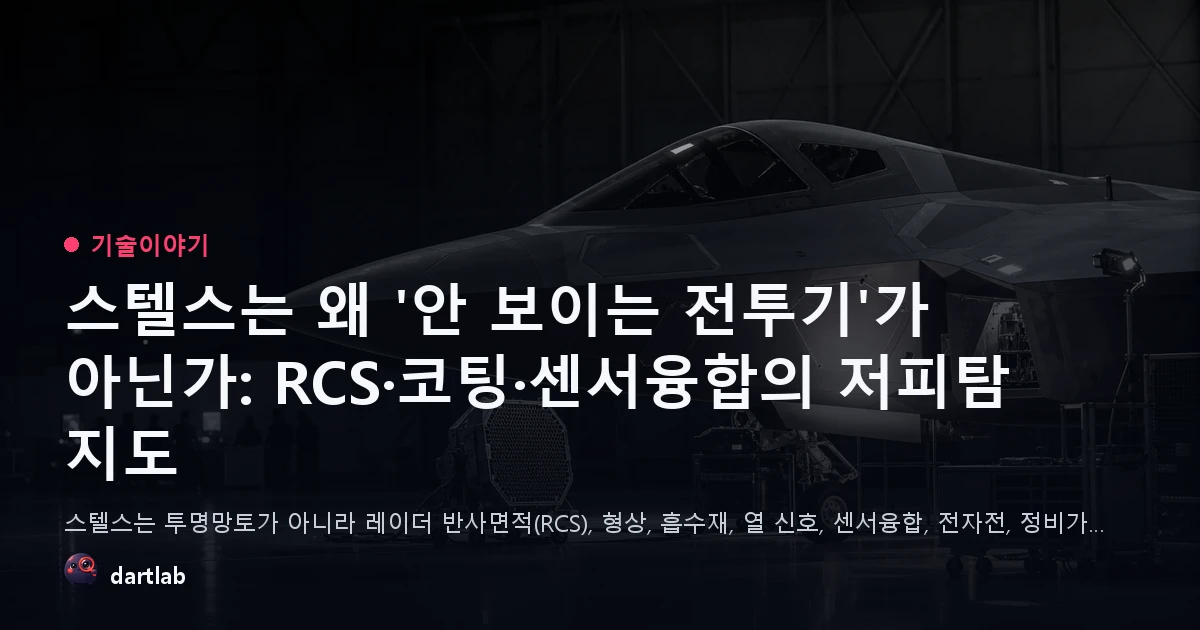
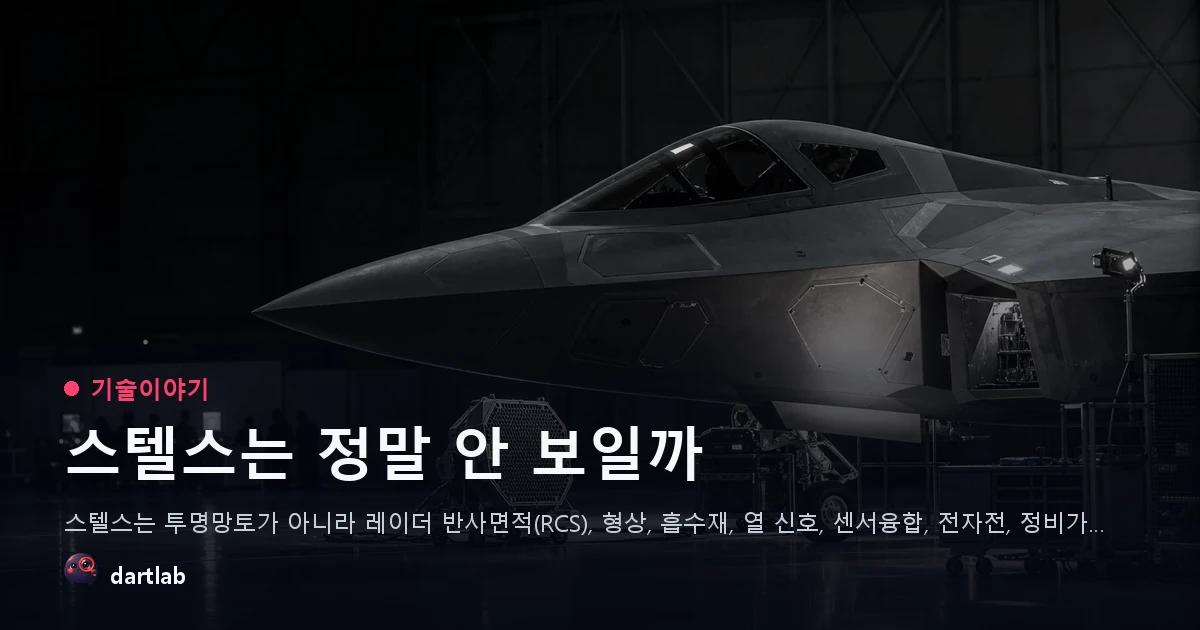
개선: 스텔스 기술이야기 심층 보강

diff --git a/blog/_scripts/cards_plan.py b/blog/_scripts/cards_plan.py
@@ -827,7 +827,7 @@ def validate_title_contract(plan: dict[str, Any], *, require_passed: bool) -> li
         )
 
     compact_title_len = compact_text_len(target_title)
-    if compact_title_len < 14:
+    if compact_title_len < 8:
         errors.append(f"{slug}: 제목이 너무 짧아 후크가 약함: {target_title!r}")
     if compact_title_len > 80:
         errors.append(f"{slug}: 제목이 너무 길어 표지 후크가 흐려짐: {target_title!r}")
@@ -1054,7 +1054,8 @@ def validate_contract_big_sentence_flow(slug: str, contract: dict[str, Any]) -> 
         compact = re.sub(r"[^0-9A-Za-z가-힣]", "", text)
         if layout == "editorialStat" and not clean_card_text(slide.get("context")):
             errors.append(f"{slug} #{idx}: 숫자 카드도 context 에 큰문장 서사를 써야 함")
-        if len(compact) < 12:
+        min_compact_len = 8 if idx == 1 and text.endswith("?") else 12
+        if len(compact) < min_compact_len:
             errors.append(f"{slug} #{idx}: 큰문장이 너무 짧아 메모처럼 보임: {text!r}")
         if text and not SENTENCE_END_RE.search(text):
             errors.append(f"{slug} #{idx}: 큰문장은 완성 문장으로 끝나야 함: {text!r}")

diff --git a/blog/_scripts/test_cards_plan.py b/blog/_scripts/test_cards_plan.py
@@ -342,3 +342,10 @@ def test_contract_big_sentence_flow_blocks_fragmented_labels() -> None:
 def test_contract_big_sentence_flow_accepts_connected_story() -> None:
     errors = cp.validate_contract_big_sentence_flow("x", {"slides": _valid_big_sentence_slides()})
     assert errors == []
+
+
+def test_contract_big_sentence_flow_accepts_short_cover_question() -> None:
+    slides = _valid_big_sentence_slides()
+    slides[0]["line"] = "회원권은 정말 돈일까?"
+    errors = cp.validate_contract_big_sentence_flow("x", {"slides": slides})
+    assert errors == []

diff --git a/blog/08-tech-story/07-stealth-rcs-value-chain/index.md b/blog/08-tech-story/07-stealth-rcs-value-chain/index.md
@@ -1,5 +1,5 @@
 ---
-title: "스텔스는 왜 '안 보이는 전투기'가 아닌가: RCS·코팅·센서융합의 저피탐 지도"
+title: "스텔스는 정말 안 보일까"
 date: "2026-07-06"
 description: "스텔스는 투명망토가 아니라 레이더 반사면적(RCS), 형상, 흡수재, 열 신호, 센서융합, 전자전, 정비가 묶인 저피탐 시스템이다. F-35·B-21·KF-21 라인을 DART·EDGAR 공시와 2025년 손익으로 연결해 기술이 회사 숫자에 남는 방식을 읽는다."
 category: tech-story
@@ -25,7 +25,7 @@ ai:
   dataAsOf: "2026-07-06"
 carousel:
   name: "스텔스 기술"
-  title: "스텔스는 왜 '안 보이는 전투기'가 아닌가"
+  title: "스텔스는 정말 안 보일까"
   caption: |
     스텔스는 투명망토가 아닙니다. 레이더가 보낸 전파가 얼마나 작게, 늦게, 엉뚱한 방향으로 돌아오게 만들 것인가를 설계하는 공학입니다.
 
@@ -47,8 +47,8 @@ carousel:
       body: "작은 송수신 모듈을 많이 묶어 빔을 빠르게 움직이는 레이더입니다. 먼저 보고 먼저 쏘는 능력의 핵심입니다."
   slides:
     - layout: editorial
-      line: "스텔스는 '안 보이는 전투기'가 아니라 되돌아오는 신호를 줄이는 기술입니다."
-      sub: "RCS·흡수재·센서융합이 만드는 저피탐 지도"
+      line: "스텔스는 정말 안 보일까?"
+      sub: "답은 RCS·코팅·센서융합의 저피탐 지도에 있습니다."
     - layout: editorialBeat
       kicker: "레이더의 눈"
       line: "그래서 첫 단계는 레이더 전파가 돌아오는 길을 꺾고 줄이는 형상 설계입니다."
@@ -111,6 +111,16 @@ carousel:
 
 하지만 이 숫자는 절대값처럼 믿으면 안 된다. RCS는 각도와 주파수에 따라 달라진다. 정면에서는 작아도 옆이나 아래에서는 커질 수 있고, 고주파 레이더에는 작아도 저주파 조기경보 레이더에는 다르게 보일 수 있다. 그래서 스텔스는 "안 보임"이 아니라 **탐지 확률과 교전 시간을 바꾸는 기술**로 읽어야 한다.
 
+레이더 방정식으로 보면 이 차이가 더 분명해진다. 단순화하면 탐지거리는 RCS의 네제곱근에 비례한다. 반사 신호를 10분의 1로 낮춘다고 탐지거리가 10분의 1이 되는 것은 아니다. 그래도 효과는 크다. 상대가 훨씬 가까워져야 같은 확률로 잡을 수 있고, 그만큼 추적·식별·사격 계산에 쓸 시간이 줄어든다.
+
+| RCS 변화 | 반사 전력 | 단순 탐지거리 비율 | 작전상 의미 |
+|---|---:|---:|---|
+| -10dB | 10분의 1 | 약 56% | 같은 레이더가 더 가까워져야 안정적으로 잡는다 |
+| -20dB | 100분의 1 | 약 32% | 조기 탐지 창이 크게 줄어 교전 준비 시간이 짧아진다 |
+| -30dB | 1000분의 1 | 약 18% | 단독 레이더보다 다중 센서망과 전자전 대응이 중요해진다 |
+
+그래서 스텔스의 경제적 가치는 "사라지는 능력"이 아니라 **상대의 의사결정 시간을 깎는 능력**이다. 탐지가 늦어지면 미사일 발사 거리, 회피 기동, 전자전 대응, 아군 네트워크의 정보 우위가 모두 달라진다. 기술이야기에서 RCS를 먼저 보는 이유는 여기에 있다.
+
 ![RCS는 실제 크기가 아니라 되돌아오는 전파의 크기다](./assets/01-rcs-principle.svg)
 
 ## 2. 전투기는 왜 각지게 생겼나: 형상이 먼저 숨긴다
@@ -143,6 +153,18 @@ AESA 레이더(능동 전자주사식 레이더)는 이 중심에 있다. 작은
 
 전자전도 같은 지도에 들어간다. 스텔스기가 전파를 덜 반사해도, 스스로 강하게 송신하면 위치가 드러난다. 적 레이더가 다른 주파수와 센서망으로 찾으려 하면 이를 교란하거나 회피해야 한다. LIG넥스원이 항공전자전과 유도무기 축에서 자주 언급되는 이유는, 저피탐 항공기가 혼자 떠 있는 물체가 아니라 전자전, 데이터링크, 무장 체계와 함께 작동하기 때문이다.
 
+실전에서는 이 과정이 하나의 사슬로 이어진다. 탐지하고, 표적인지 분류하고, 궤적을 계속 추적하고, 사격 해법을 만들고, 미사일을 유도하고, 다시 피해평가를 한다. 스텔스는 이 사슬의 모든 칸을 끊으려는 기술이다. 한 칸만 늦춰도 상대는 확신을 잃고, 두 칸 이상 흔들면 발사 결심 자체가 늦어진다.
+
+| 교전 사슬 | 상대가 해야 할 일 | 스텔스가 흔드는 지점 | 연결 회사·기술 |
+|---|---|---|---|
+| 탐지 | 레이더·적외선·전자정보로 표적 후보를 잡는다 | RCS, 열 신호, 전파 방출을 낮춰 후보 포착을 늦춘다 | 형상 설계, RAM, 엔진·열 관리 |
+| 분류 | 새 떴는지, 전투기인지, 미끼인지 구분한다 | 신호가 작고 불안정하면 표적 확신이 늦어진다 | 센서융합, 전자지원, 데이터링크 |
+| 추적 | 위치·속도·고도를 계속 업데이트한다 | 각도와 주파수에 따라 신호가 달라 추적이 끊긴다 | AESA, 전자전, 임무컴퓨터 |
+| 교전 | 사격 거리와 미사일 유도 조건을 계산한다 | 추적 시간이 짧아지면 발사 창도 좁아진다 | 유도무기, 전자전, 네트워크 |
+| 재탐지 | 회피 뒤 다시 잡고 피해를 평가한다 | 기체·전자전·기동이 합쳐져 확신을 더 늦춘다 | 소프트웨어, 전자전 업데이트, 정비 |
+
+이 표가 중요한 이유는 회사 지도를 바꾸기 때문이다. 완성기 업체만 보는 순간 스텔스의 절반을 놓친다. 레이더 모듈, 전자전 수신기, 미사일 시커, 데이터링크, 임무컴퓨터, 코팅 정비까지 모두 교전 사슬의 병목이다. 기술의 깊이는 전투기 사진이 아니라 이 사슬에서 보인다.
+
 ![저피탐 스택은 형상, 소재, 센서, 전자전, 정비가 겹친 시스템이다](./assets/02-low-observable-stack.svg)
 
 ## 5. 공정·회사·근거 지도: 어느 회사가 어느 칸을 쥐나
@@ -158,6 +180,20 @@ AESA 레이더(능동 전자주사식 레이더)는 이 중심에 있다. 작은
 | 정비·업그레이드 | 코팅, 패널, 소프트웨어, 부품을 운용 기간 내내 유지한다 | LMT, NOC, KAI와 각국 MRO 라인 | GAO, EDGAR 10-K, DART | 판매 뒤 군수지원 계약과 가동률 문제가 반복 매출과 비용으로 남는다 |
 
 이 표의 핵심은 "누가 멋진 전투기를 만드나"가 아니다. **누가 바꾸기 어려운 칸을 잡고 있나**다. 형상과 체계통합은 고객 전환비용이 높다. AESA 레이더는 성능 검증과 항공기 통합 난도가 높다. 엔진은 인증과 수명주기 정비가 길다. 전자전은 위협 데이터와 운용 경험이 쌓일수록 강해진다. 정비는 운용 중 계속 반복된다. 이 칸들이 스텔스 기술의 재무적 자리다.
+
+더 아래로 내려가면 "스텔스 수혜"라는 말은 여러 개의 서로 다른 공정으로 쪼개진다. 같은 방산 회사라도 어느 칸에 있는지에 따라 회계가 다르다. 설계·해석은 연구개발비와 인력으로 보이고, 생산은 재고와 진행률로 보이며, 정비는 장기 서비스 매출과 비용 안정성으로 보인다.
+
+| 더 작은 기술 칸 | 실제로 어려운 것 | 공시에서 볼 흔적 | 왜 병목인가 |
+|---|---|---|---|
+| RCS 해석·형상 설계 | 각도·주파수별 산란을 계산하고 무장창·흡입구·패널선을 함께 맞춘다 | EDGAR/DART의 연구개발, 프로그램 설명, 주요 계약 | 초기 설계가 틀리면 뒤의 소재와 전자전으로 만회하기 어렵다 |
+| 복합재·표면 품질 | 곡면·패널·도어 경계를 대량생산에서도 같은 품질로 반복한다 | 재고, 유형자산, 품질 비용, 양산 램프업 설명 | 실험기 성능을 양산기로 옮기는 구간이다 |
+| RAM·코팅·봉합 | 주파수·두께·접착·습도·온도·정비 손상을 관리한다 | 유지보수 계약, 비용 증가, 가동률 논의 | 출고 뒤에도 성능이 계속 닳기 때문에 반복 매출과 비용을 만든다 |
+| AESA 송수신 모듈 | 작은 모듈 수백~수천 개를 열·전력·신뢰성 안에서 운용한다 | 방산전자 매출, 개발비, 양산 전환 설명 | 먼저 보는 능력의 핵심이고, 항공기 통합 검증이 어렵다 |
+| 임무컴퓨터·센서융합 | 레이더, 적외선, 전자정보, 데이터링크를 하나의 그림으로 합친다 | 소프트웨어·항공전자 설명, 업그레이드 계약 | 하드웨어보다 늦게 개선되며 운용 데이터가 쌓일수록 강해진다 |
+| 전자전·유도무기 | 상대 센서를 속이고, 짧은 교전 창에서 무장을 유도한다 | 유도무기·전자전 수주, 선수금, 수출 허가 | 기체가 덜 보이는 것만으로는 교전 우위가 완성되지 않는다 |
+| RCS 시험·정비 | 비행 전후 표면 상태와 반사 특성을 반복 확인한다 | GAO 가동률·유지비 지적, MRO 계약 | 실제 작전 성능을 유지하는 마지막 품질 게이트다 |
+
+따라서 기술이야기의 질문은 "스텔스 전투기를 누가 만드나"에서 멈추면 안 된다. 더 좋은 질문은 "어느 회사가 이 작은 기술 칸 중 하나를 반복 가능한 품질과 계약으로 묶고 있나"다. 그때부터 KAI는 단순 조립사가 아니라 체계통합·시험의 병목으로 보이고, 한화시스템은 레이더 부품사가 아니라 센서융합의 관문으로 보이며, LIG넥스원은 주변 무장사가 아니라 짧아진 교전 창을 실제 타격으로 바꾸는 회사로 보인다.
 
 ![스텔스 밸류체인 회사 배치](./assets/03-company-map.svg)
 
@@ -254,7 +290,24 @@ for c in [kai, hs, lig]:
 
 그래서 이 글의 결론은 숫자 하나가 아니라 읽는 순서다. 먼저 원리를 본다. 그다음 공정·회사 지도를 본다. 마지막으로 시간축을 본다. 스텔스라는 단어가 붙은 회사가 아니라, **그 회사의 기술 칸이 언제 매출이 되고 언제 이익이 되며 언제 현금이 되는지**를 확인해야 한다.
 
-## 9. 이렇게 오해하면 안 된다
+## 9. 공시를 어떻게 읽나: EDGAR와 DART는 같은 표가 아니다
+
+스텔스 밸류체인을 공시로 읽을 때 가장 흔한 실수는 미국 10-K와 한국 사업보고서를 같은 구조의 엑셀처럼 다루는 것이다. 둘 다 기업 보고서지만, 회계연도 라벨, 분기 누적 방식, 사업부 설명, 수주·백로그 표현이 다르다. 특히 EDGAR는 회사별 결산월이 다를 수 있으므로 `2025Q4`라는 컬럼명이 보인다고 바로 2025년 달력연도라고 보면 안 된다. 먼저 10-K의 fiscal year end와 10-Q의 period를 확인해야 한다.
+
+| 읽을 위치 | EDGAR에서 볼 것 | DART에서 볼 것 | 스텔스 글에서의 의미 |
+|---|---|---|---|
+| 사업 설명 | Item 1 Business, 주요 프로그램, 고객, segment | 사업의 내용, 주요 제품, 방산 부문 설명 | 회사가 플랫폼·센서·엔진·전자전·정비 중 어느 칸에 있는지 확인한다 |
+| 경영진 설명 | Item 7 MD&A, program charges, backlog, contract risk | 영업실적 설명, 수주상황, 진행률, 원가 변동 | 기술 난도가 손익으로 넘어가는 시간표를 읽는다 |
+| 손익계산서 | revenue, operating income, segment margin | 매출액, 영업이익, 부문 손익 | 기술 칸이 회사 전체 이익률에 얼마나 섞여 있는지 본다 |
+| 재무상태표 | inventory, contract assets/liabilities, receivables | 재고자산, 계약자산, 계약부채, 매출채권 | 장기 생산·진행률·선수금이 현금흐름을 흔드는지 본다 |
+| 현금흐름표 | operating cash flow, capex, working capital | 영업현금흐름, 유형자산 취득, 운전자본 | 이익이 실제 현금으로 바뀌는 시차를 본다 |
+| 주석·리스크 | government contracts, fixed-price risk, supply chain | 주요 계약, 우발부채, 연구개발비 | 고정가·개발비·품질 비용이 마진을 깎는 지점을 본다 |
+
+이 표를 적용하면 글의 결론도 달라진다. LMT의 F-35는 Aeronautics 사업부와 장기 군수지원의 문제로 읽어야 하고, NOC의 B-21은 Aeronautics와 Mission Systems, Space가 엮인 장기 프로그램으로 봐야 한다. RTX는 센서·미사일·엔진 축이 섞여 있어 "스텔스 수혜" 한 단어로 묶기 어렵다. KAI는 완성기 체계통합과 진행률, 한화시스템은 AESA·항공전자와 ICT 믹스, 한화에어로는 엔진·방산 체계와 수출 사이클, LIG넥스원은 유도무기·전자전 수주와 선수금이 중요하다.
+
+그래서 EDGAR와 DART는 단순히 숫자 출처가 아니라 **기술 지도를 회계 시간표로 바꾸는 장치**다. 기술 칸을 찾고, 그 칸이 어느 사업부에 있고, 그 사업부가 어떤 계약 방식으로 매출을 인식하며, 그 매출이 언제 이익과 현금으로 바뀌는지까지 이어야 깊이가 생긴다.
+
+## 10. 이렇게 오해하면 안 된다
 
 첫째, 스텔스는 무적이 아니다. 저주파 레이더, 적외선 탐지(IRST), 다중 센서 네트워크, 전자정보 수집, 데이터링크는 저피탐 항공기를 다시 찾으려는 반대편 기술이다. 스텔스는 이 모든 것을 무력화하지 않는다. 다만 상대가 더 늦게, 더 불확실하게, 더 짧은 교전 창에서 판단하도록 만든다.
 
@@ -266,7 +319,7 @@ for c in [kai, hs, lig]:
 
 ![스텔스와 탐지 기술의 맞물림](./assets/05-detect-counterdetect.svg)
 
-## 10. 판단: 스텔스는 플랫폼보다 병목을 봐야 한다
+## 11. 판단: 스텔스는 플랫폼보다 병목을 봐야 한다
 
 스텔스의 표면적 주인공은 전투기다. 그러나 재무제표에서 봐야 할 주인공은 조금 다르다. 형상을 잡는 주계약사, AESA 레이더를 붙이는 센서 회사, 엔진과 열 신호를 다루는 항공엔진 회사, 전자전과 무장을 잇는 방산전자 회사, 그리고 출고 뒤 수십 년 동안 저피탐 상태를 유지하는 정비 체계가 모두 병목이다.
 
@@ -290,6 +343,9 @@ for c in [kai, hs, lig]:
 | 한화에어로스페이스 2025 매출 26.70조원, 영업이익률 11.6% | `Company("012450").select("IS")` 2025Q1~Q4 합산 | dartlab 실측 (DART) |
 | LIG넥스원 2025 매출 4.31조원, 영업이익률 7.4% | `Company("079550").select("IS")` 2025Q1~Q4 합산 | dartlab 실측 (DART) |
 | RCS 10dB 저감은 반사 전력 10분의 1, 20dB 저감은 100분의 1 | 레이더 공학의 데시벨 정의 | 기술 설명 |
+| RCS가 10분의 1이면 단순 탐지거리 비율은 약 56%, 100분의 1이면 약 32% | 레이더 방정식의 RCS 네제곱근 관계 | 기술 설명 |
+| EDGAR 수치는 결산월과 10-K/10-Q period를 먼저 확인해야 함 | `Company("LMT").fiscalYearEnd`, SEC EDGAR 원문 | 공시 해석 가드 |
+| DART 수치는 사업보고서·분기보고서의 누적/분기 표시와 수주상황을 분리해야 함 | DART 원문, dartlab `Company().select("IS")` | 공시 해석 가드 |
 
 ```python
 import dartlab
